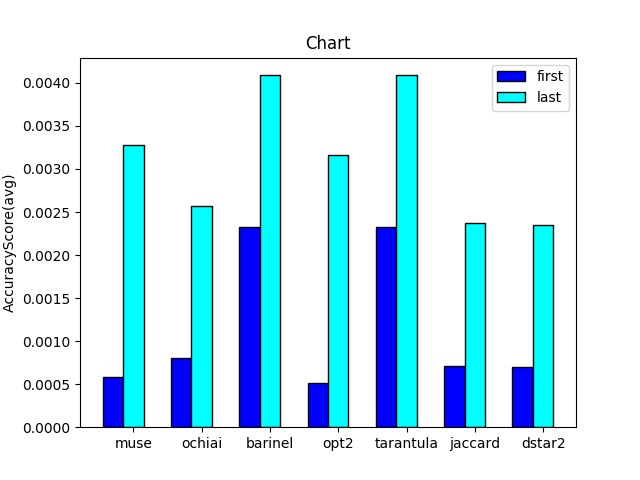
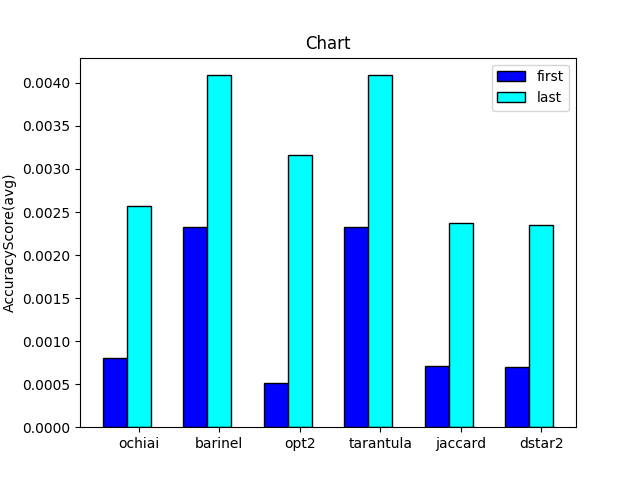
update script

Changed region(s): [[0.1562, 0.1562, 0.875, 0.9375]]

diff --git a/parse_csv.py b/parse_csv.py
@@ -20,7 +20,7 @@ from os.path import isfile, join
 PWD="/Users/chiyucheng/Desktop/code/faultLocalization/results/"
 PLOT="/Users/chiyucheng/Desktop/code/faultLocalization/plots/"
 
-overall_first =  {'muse':[],
+overall_first =  {
                   'ochiai':[],
                   'barinel':[],
                   'opt2':[],
@@ -28,7 +28,7 @@ overall_first =  {'muse':[],
                   'jaccard':[],
                   'dstar2':[]
                     }
-overall_last = {'muse':[],
+overall_last = {
                   'ochiai':[],
                   'barinel':[],
                   'opt2':[],
@@ -69,7 +69,7 @@ def graphGenerator(path,name):
     fileNames = getFileNames(path)
     count = len(fileNames)
 
-    dict_items_first = {'muse':[],
+    dict_items_first = {
                   'ochiai':[],
                   'barinel':[],
                   'opt2':[],
@@ -77,7 +77,7 @@ def graphGenerator(path,name):
                   'jaccard':[],
                   'dstar2':[]
                     }
-    dict_items_last = {'muse':[],
+    dict_items_last = {
                   'ochiai':[],
                   'barinel':[],
                   'opt2':[],
@@ -93,7 +93,7 @@ def graphGenerator(path,name):
         #print("file name is "+ fileName)
         #print(first_info)
         
-        for key in first_info:
+        for key in dict_items_first:
             #print("key is " + key)
             dict_items_first[key].append(np.mean(first_info[key]))
             overall_first[key].append(np.mean(first_info[key]))
